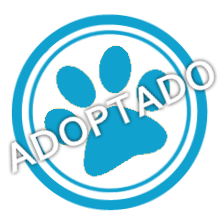
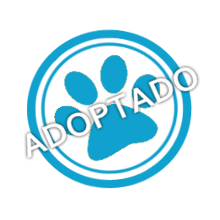
Added watermark version to pictures

diff --git a/app/uploaders/picture_uploader.rb b/app/uploaders/picture_uploader.rb
@@ -4,15 +4,41 @@ class PictureUploader < CarrierWave::Uploader::Base
   storage Rails.application.config.carrier_wave_storage
 
   version :thumbnail do
-    #process :resize_and_pad => [243, 243, "gray95"]
-    process :resize_to_fill => [243, 243]
+    process :resize_to_fill => [131, 131]
   end
 
   version :email do
     process :resize_to_fill => [243, 243]
   end
 
+  version :show do
+    process :resize_to_fill => [440, 440]
+  end
+
+  version :index do
+    process :resize_to_fill => [254, 254]
+  end
+
+  version :adopted do
+    process :resize_to_fill => [254, 254]
+    process :watermark
+  end
+
   def extension_white_list
      %w(jpg jpeg gif png)
+  end
+
+  protected
+  def watermark
+    manipulate! do |img|
+      logo = Magick::Image.read("#{Rails.root}/app/assets/images/adopted_watermark.png").first
+
+      white_canvas = Magick::Image.new(logo.columns, logo.rows) { self.background_color = "none" }
+      white_canvas.opacity = Magick::QuantumRange - (Magick::QuantumRange * 0.4)
+
+      logo = logo.composite(white_canvas, Magick::NorthWestGravity, 0, 0, Magick::DstInCompositeOp)
+
+      img = img.composite(logo, Magick::NorthWestGravity, 15, 0, Magick::OverCompositeOp)
+    end
   end
 end
